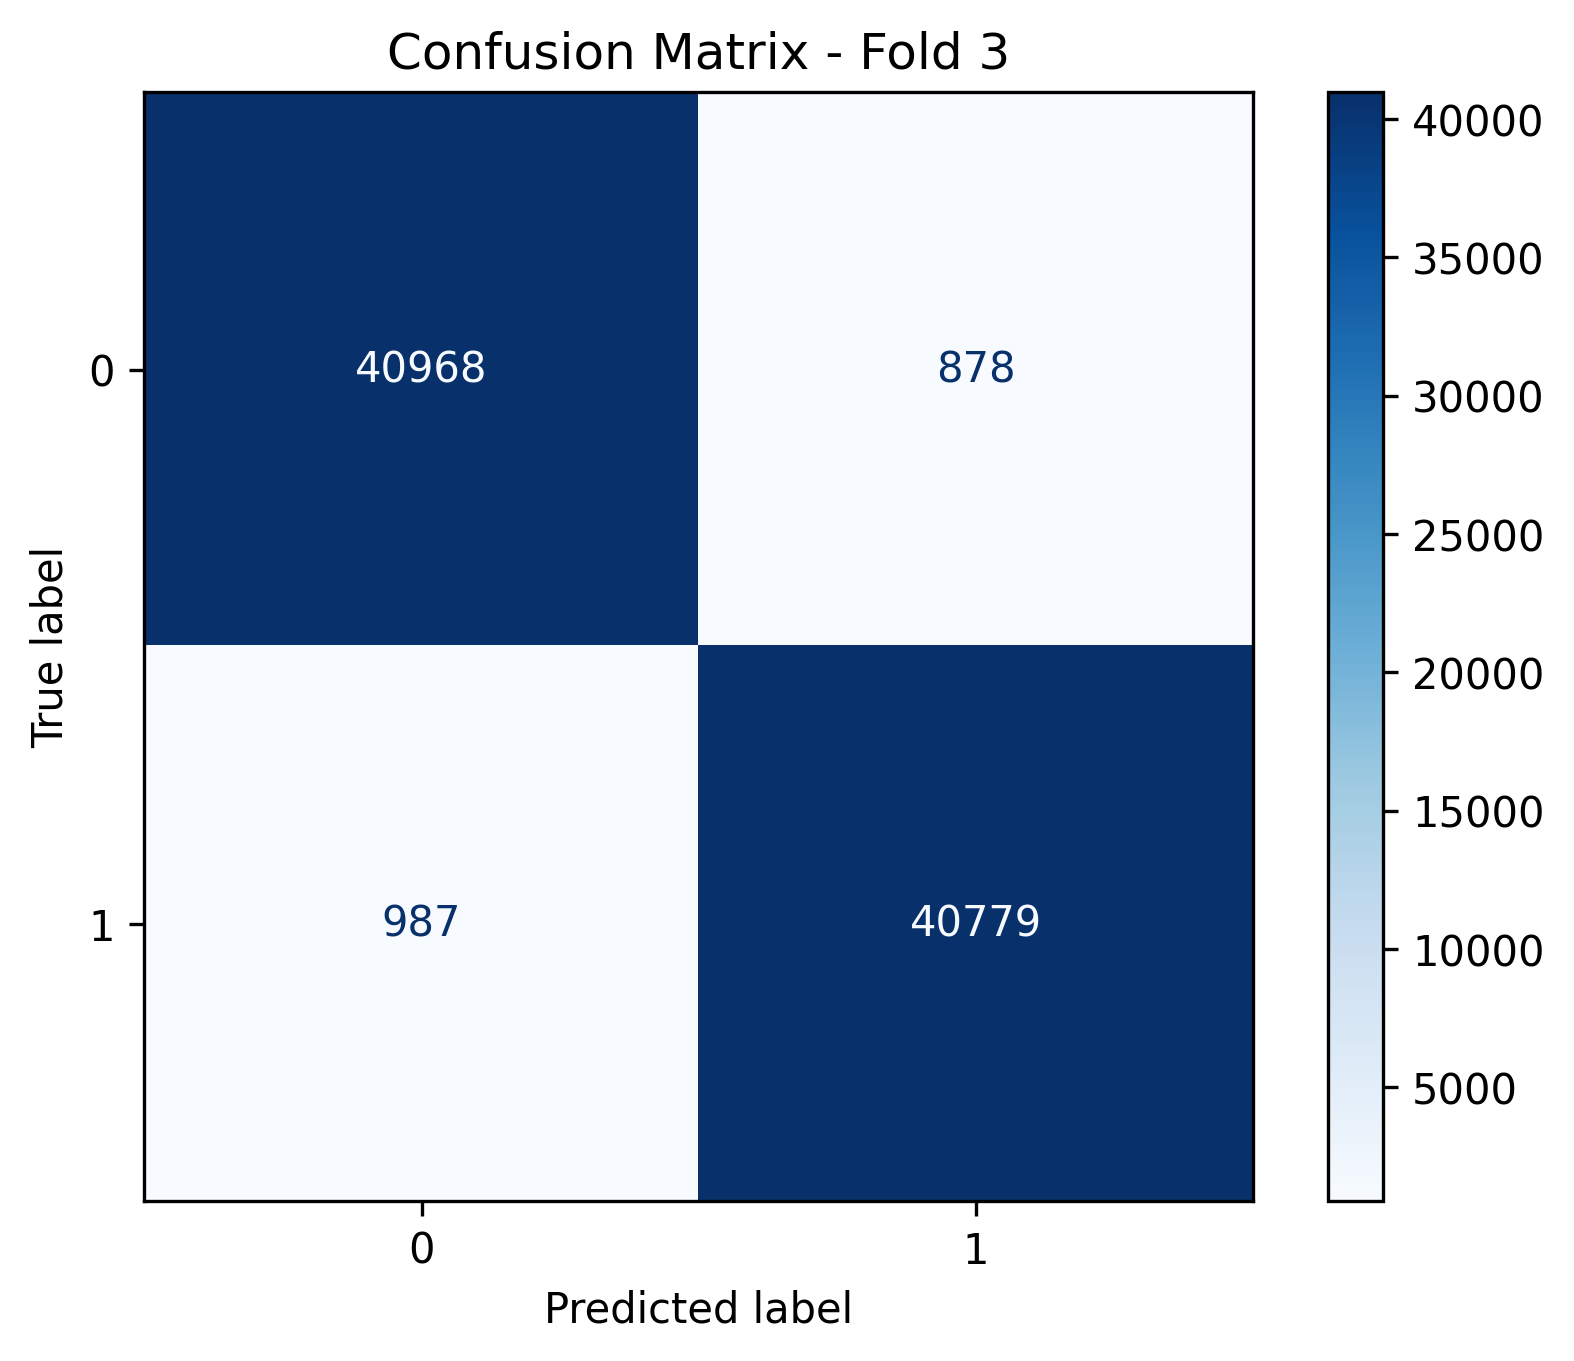
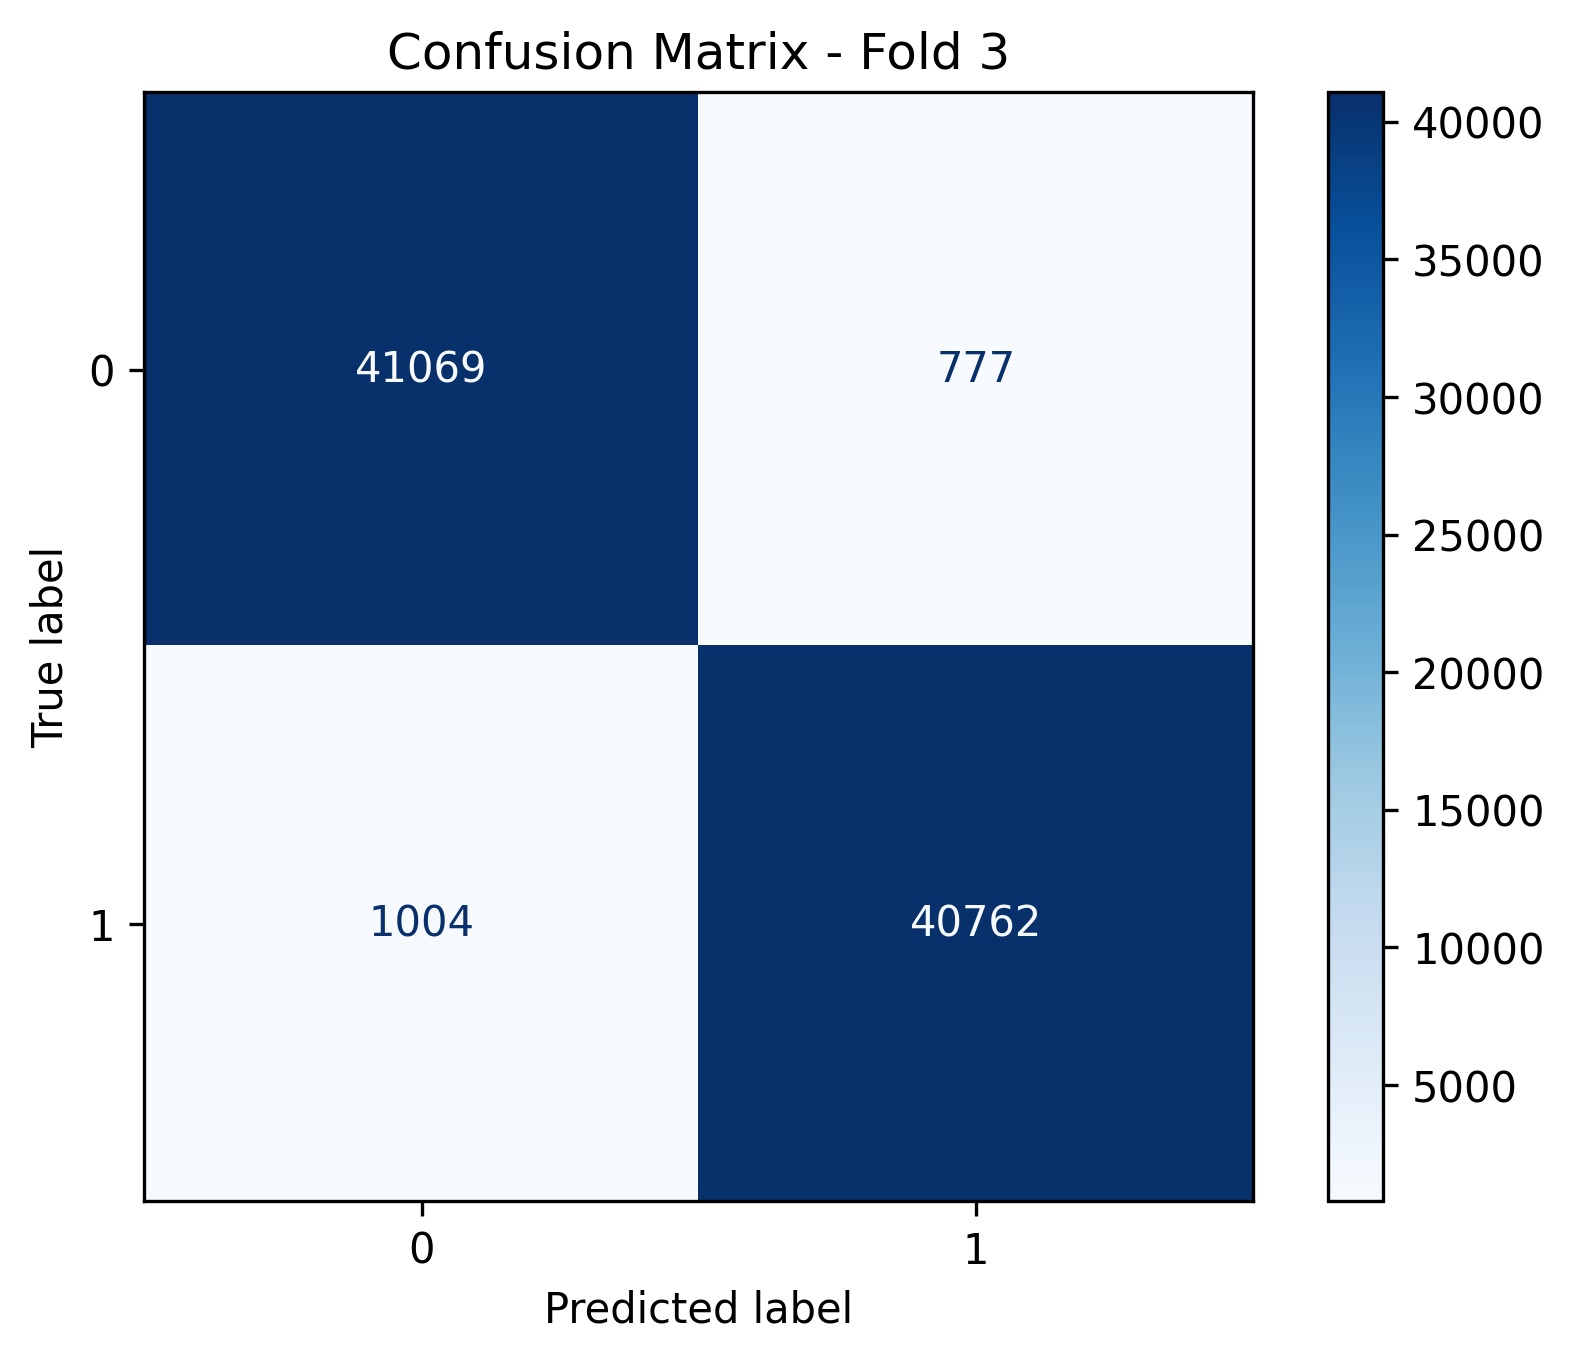
added GridSearch for GNB

diff --git a/Training/Binary/Gaussian Naive Bayes/binary_GNB_11.py b/Training/Binary/Gaussian Naive Bayes/binary_GNB_11.py
@@ -3,7 +3,7 @@ import os
 import pandas as pd
 import numpy as np
 import matplotlib.pyplot as plt
-from sklearn.model_selection import KFold, cross_val_predict
+from sklearn.model_selection import KFold, cross_val_predict, GridSearchCV
 from sklearn.naive_bayes import GaussianNB
 from sklearn.metrics import (confusion_matrix, ConfusionMatrixDisplay,
                              accuracy_score, precision_score, recall_score, f1_score, roc_curve, roc_auc_score)
@@ -13,7 +13,6 @@ feature_count = 11
 ml_algo = "Gaussian Naive Bayes"
 ml_algo_short = "GNB"
 
-clf = GaussianNB()
 k_folds = 10  # Number of folds
 
 results_path = f"results_{feature_count}"
@@ -34,6 +33,19 @@ y = df["Target"]
 
 # Set up k-fold cross-validation
 kf = KFold(n_splits=k_folds, shuffle=True, random_state=42)
+
+# Hyperparameter tuning using GridSearchCV
+param_grid = {"var_smoothing": np.logspace(-9, 0, 10)}
+grid_search = GridSearchCV(GaussianNB(), param_grid, cv=kf, scoring="accuracy", n_jobs=-1)
+grid_search.fit(X, y)
+
+# Best hyperparameters
+best_params = grid_search.best_params_
+print(f"Best Parameters for {ml_algo_short}: {best_params}")
+
+# Use the best parameter/s found by GridSearchCV
+clf = GaussianNB(**best_params)
+#-----------------------------#
 
 # Lists to store confusion matrices and scores
 conf_matrices, norm_conf_matrices = [], []

diff --git a/Training/Binary/Gaussian Naive Bayes/binary_GNB_41.py b/Training/Binary/Gaussian Naive Bayes/binary_GNB_41.py
@@ -3,7 +3,7 @@ import os
 import pandas as pd
 import numpy as np
 import matplotlib.pyplot as plt
-from sklearn.model_selection import KFold, cross_val_predict
+from sklearn.model_selection import KFold, cross_val_predict, GridSearchCV
 from sklearn.naive_bayes import GaussianNB
 from sklearn.metrics import (confusion_matrix, ConfusionMatrixDisplay,
                              accuracy_score, precision_score, recall_score, f1_score, roc_curve, roc_auc_score)
@@ -13,7 +13,6 @@ feature_count = 41
 ml_algo = "Gaussian Naive Bayes"
 ml_algo_short = "GNB"
 
-clf = GaussianNB()
 k_folds = 10  # Number of folds
 
 results_path = f"results_{feature_count}"
@@ -34,6 +33,19 @@ y = df["Target"]
 
 # Set up k-fold cross-validation
 kf = KFold(n_splits=k_folds, shuffle=True, random_state=42)
+
+# Hyperparameter tuning using GridSearchCV
+param_grid = {"var_smoothing": np.logspace(-9, 0, 10)}
+grid_search = GridSearchCV(GaussianNB(), param_grid, cv=kf, scoring="accuracy", n_jobs=-1)
+grid_search.fit(X, y)
+
+# Best hyperparameters
+best_params = grid_search.best_params_
+print(f"Best Parameters for {ml_algo_short}: {best_params}")
+
+# Use the best parameter/s found by GridSearchCV
+clf = GaussianNB(**best_params)
+#-----------------------------#
 
 # Lists to store confusion matrices and scores
 conf_matrices, norm_conf_matrices = [], []
